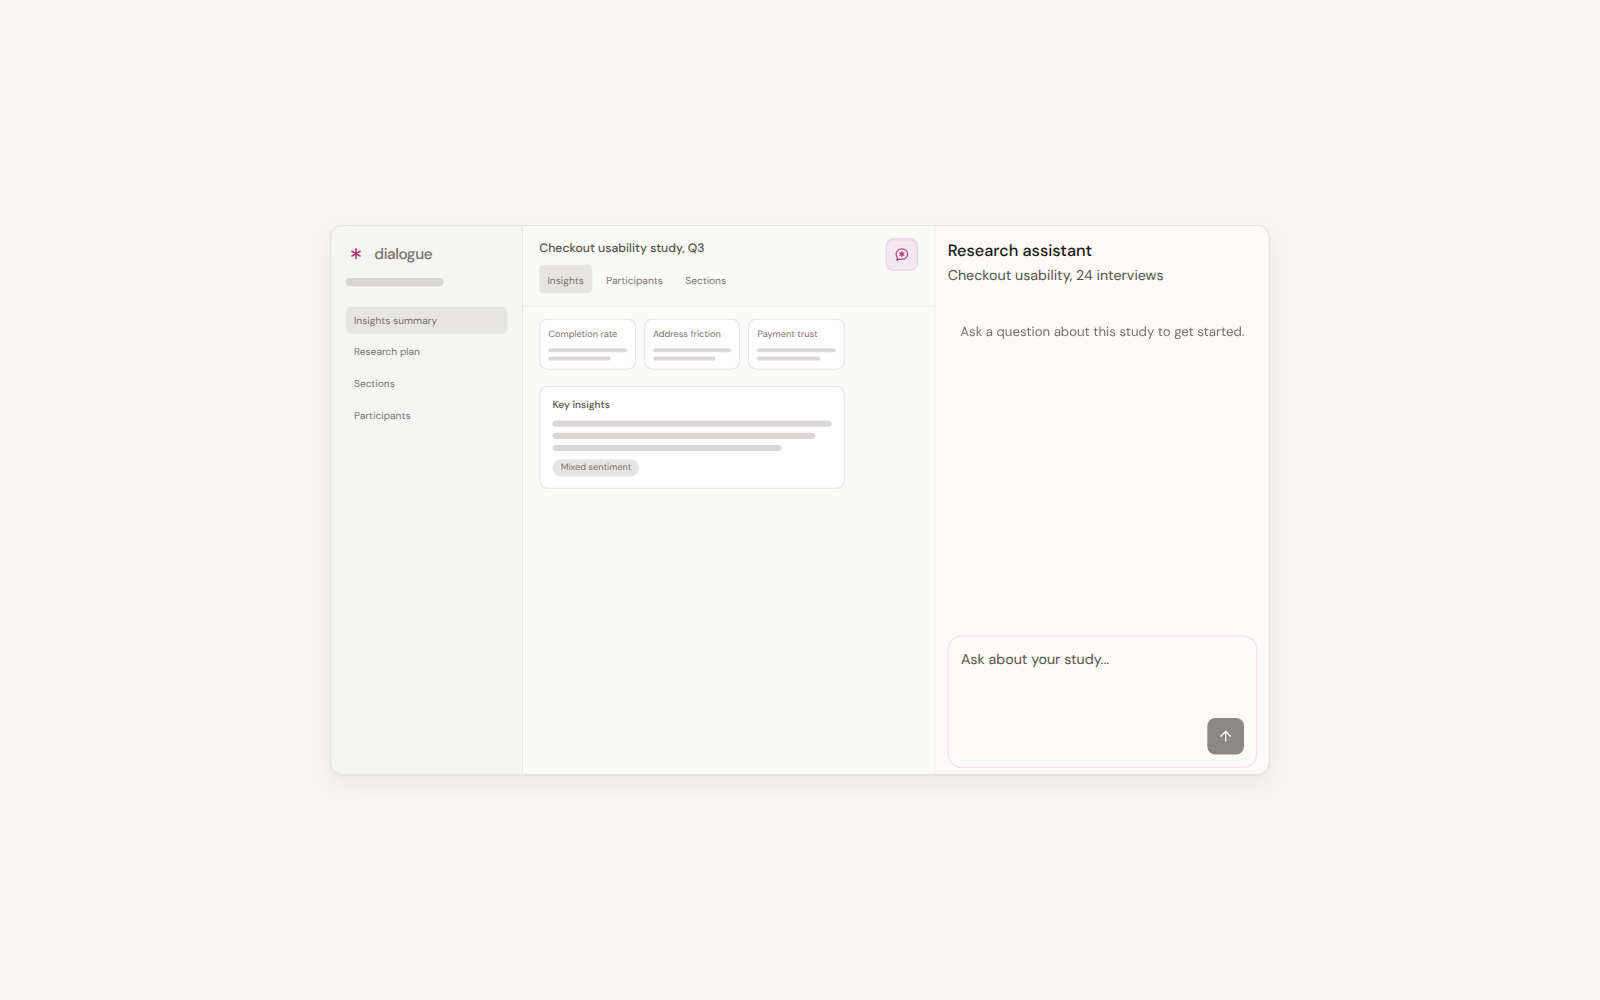
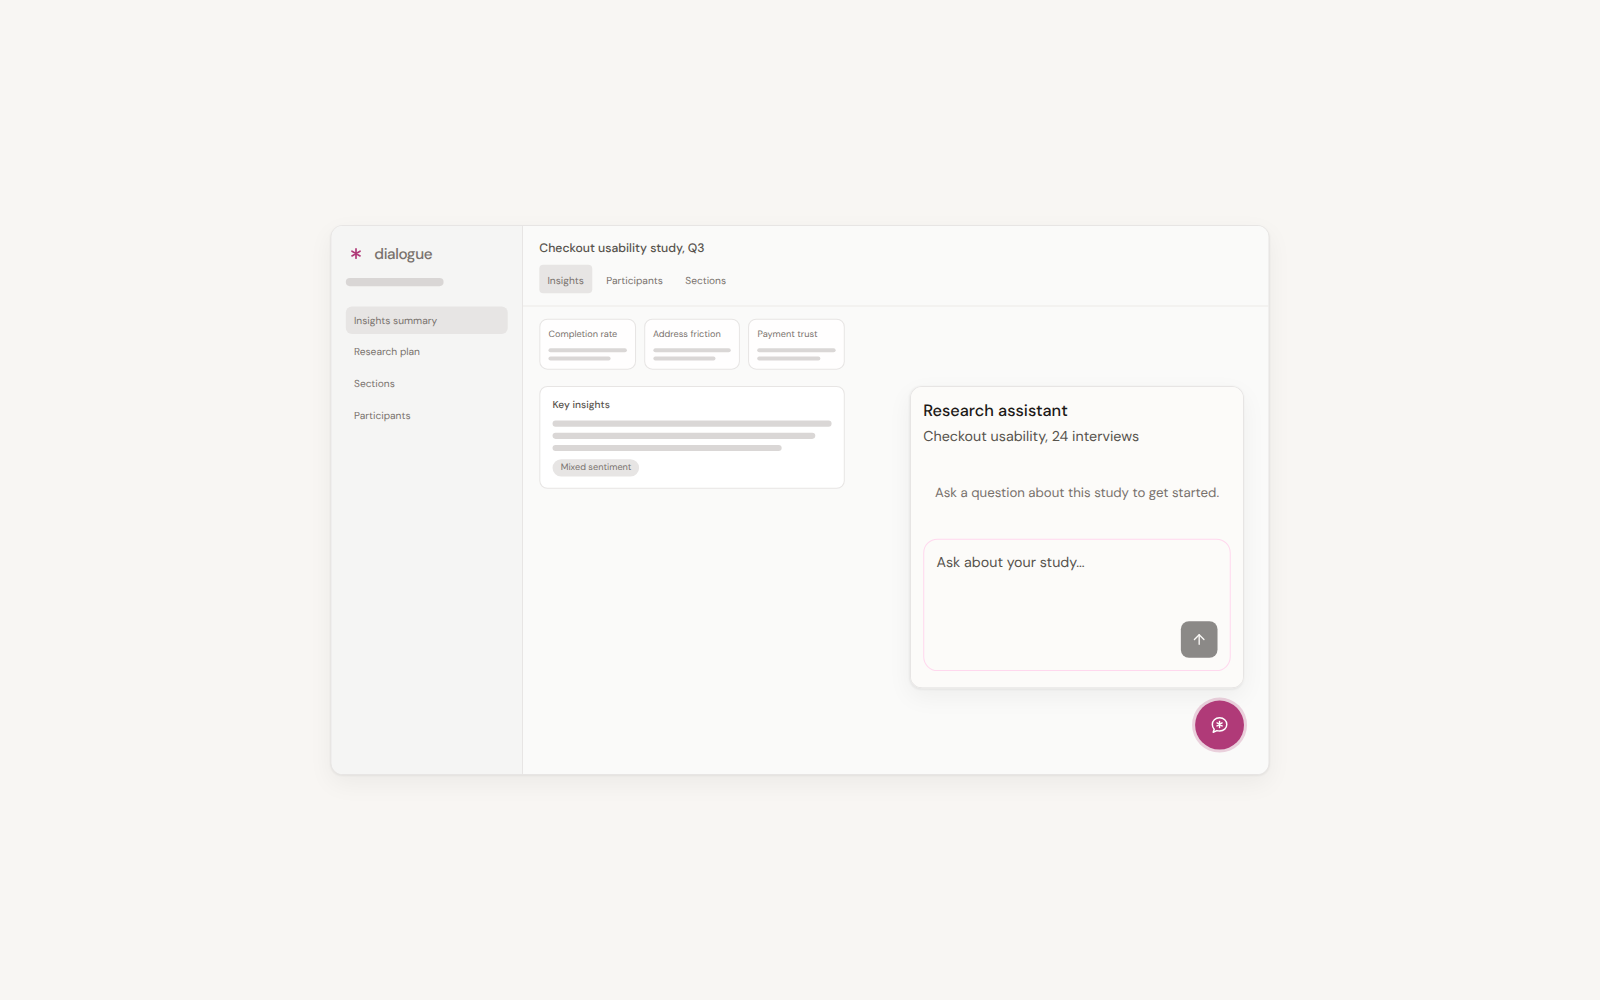
Dialogue: refresh chat graphics and add bubble vs sidebar decision
Replace section 5, 6, and 6a assets, add docked sidebar alt (6b), and
document the pop-up chat pattern in the solution section.

diff --git a/app/dialogue/page.tsx b/app/dialogue/page.tsx
@@ -41,6 +41,7 @@ const TOC_ITEMS = [
   { id: "decision-evidence", label: "Evidence links" },
   { id: "decision-clips", label: "Timestamped clips" },
   { id: "decision-context", label: "In the product" },
+  { id: "decision-bubble", label: "Bubble over sidebar" },
   { id: "solution", label: "Solution" },
   { id: "shipped", label: "What shipped" },
   { id: "reflection", label: "Reflection" },
@@ -135,6 +136,28 @@ function Body({ children, style }: { children: React.ReactNode; style?: React.CS
     >
       {children}
     </p>
+  );
+}
+
+function DraftCopyTag() {
+  return (
+    <span
+      style={{
+        display: "inline-block",
+        fontFamily: "var(--font-sans-medium)",
+        fontSize: 11,
+        fontWeight: 500,
+        letterSpacing: "0.04em",
+        textTransform: "uppercase",
+        color: "var(--color-text-muted)",
+        border: "1px solid var(--color-border-subtle)",
+        borderRadius: 4,
+        padding: "3px 8px",
+        marginBottom: 12,
+      }}
+    >
+      Draft copy
+    </span>
   );
 }
 
@@ -455,6 +478,21 @@ export default function DialogueCaseStudyPage() {
               </Body>
             </Section>
 
+            <Section id="decision-bubble">
+              <SectionLabel>Design decision</SectionLabel>
+              <H2>Bubble over sidebar</H2>
+              <DraftCopyTag />
+              <Body>
+                I explored a docked sidebar, but kept the bubble. It stays one tap away on any page
+                and collapses out of the way when researchers are reading transcripts.
+              </Body>
+              <Figure
+                src={DIALOGUE_IMAGES.dockedSidebar}
+                alt="Study page with a docked research assistant sidebar along the right edge."
+                caption="Docked sidebar exploration"
+              />
+            </Section>
+
             <Section id="solution">
               <SectionLabel>Solution</SectionLabel>
               <H2>Easy to trust and easy to use</H2>
@@ -470,8 +508,8 @@ export default function DialogueCaseStudyPage() {
               />
               <Figure
                 src={DIALOGUE_IMAGES.inProduct}
-                alt="Full study page with the research assistant docked on the right."
-                caption="The research assistant on a study page"
+                alt="Pop-up research assistant chat over the study page, the pattern used in the product."
+                caption="Pop-up chat, the pattern in the product today"
               />
               <Figure
                 src={DIALOGUE_IMAGES.fullAnswer}

diff --git a/lib/caseStudies/dialogue.ts b/lib/caseStudies/dialogue.ts
@@ -16,6 +16,7 @@ export const DIALOGUE_IMAGES = {
   chartToClips: "/dialogue/section-4.png",
   clipPlayer: "/dialogue/section-5.png",
   assistantEmpty: "/dialogue/section-6a.png",
+  dockedSidebar: "/dialogue/section-6b.png",
   inProduct: "/dialogue/section-6.png",
   fullAnswer: "/dialogue/section-7.png",
 } as const;
